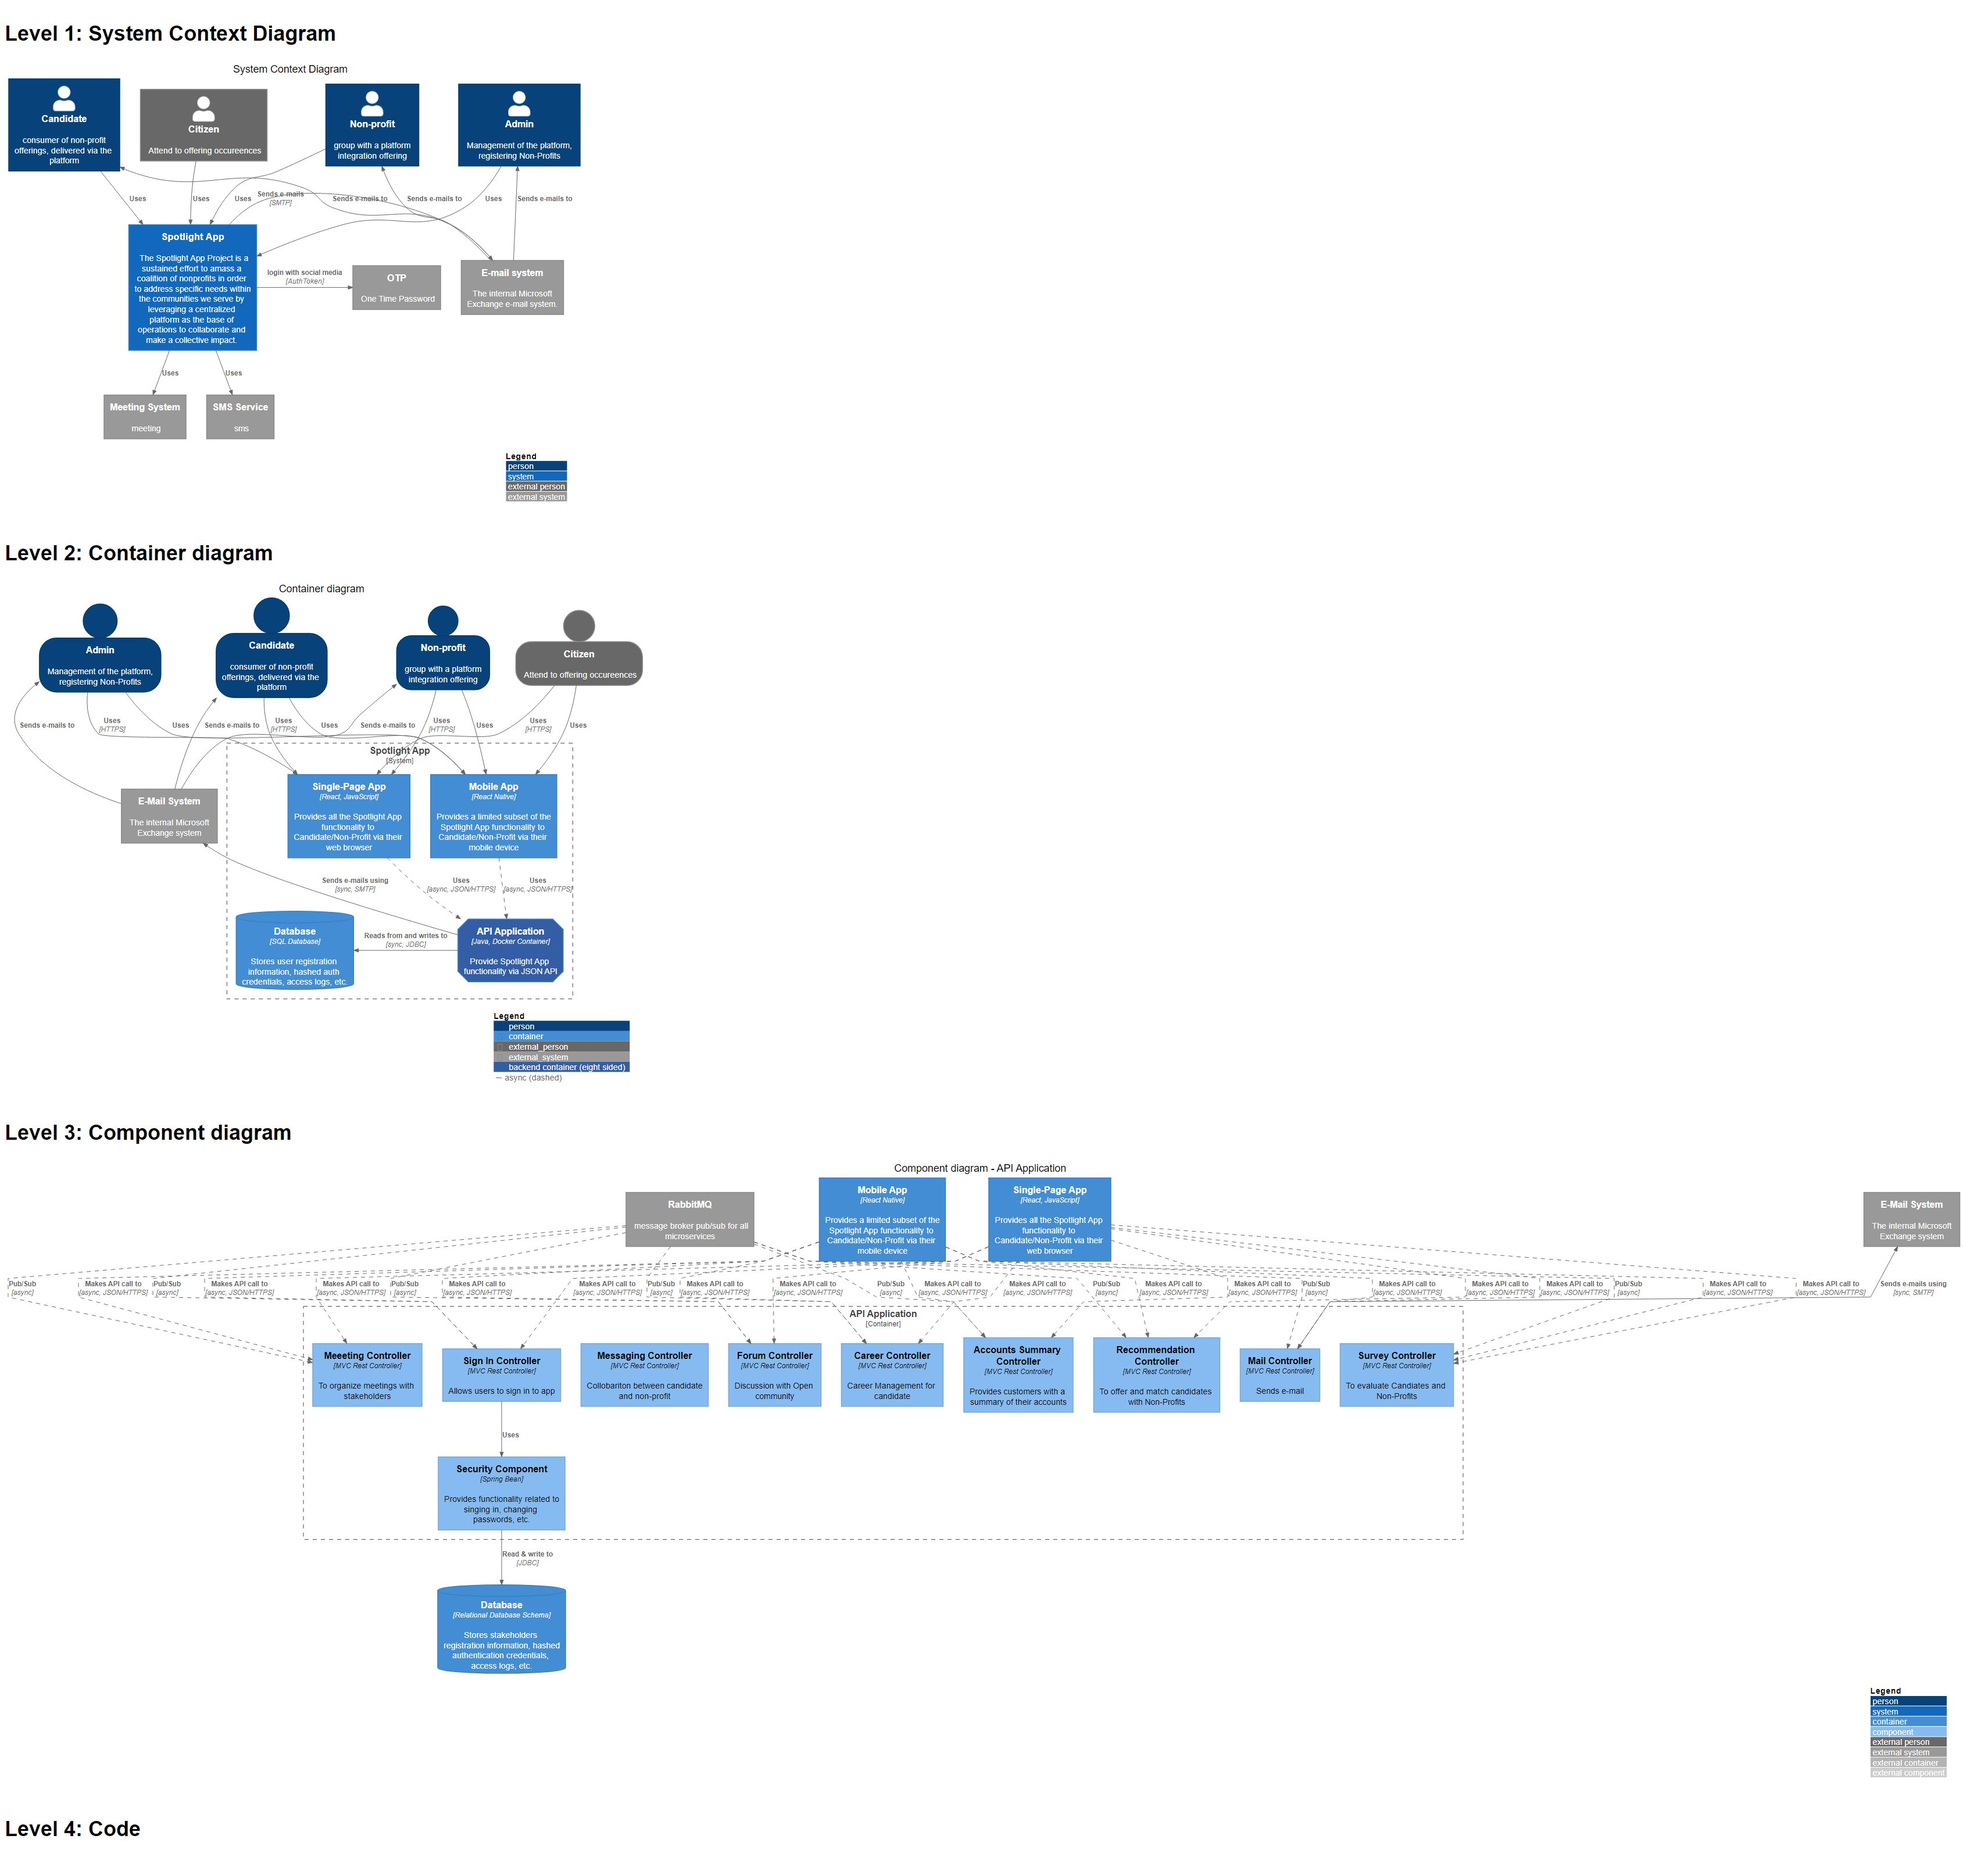
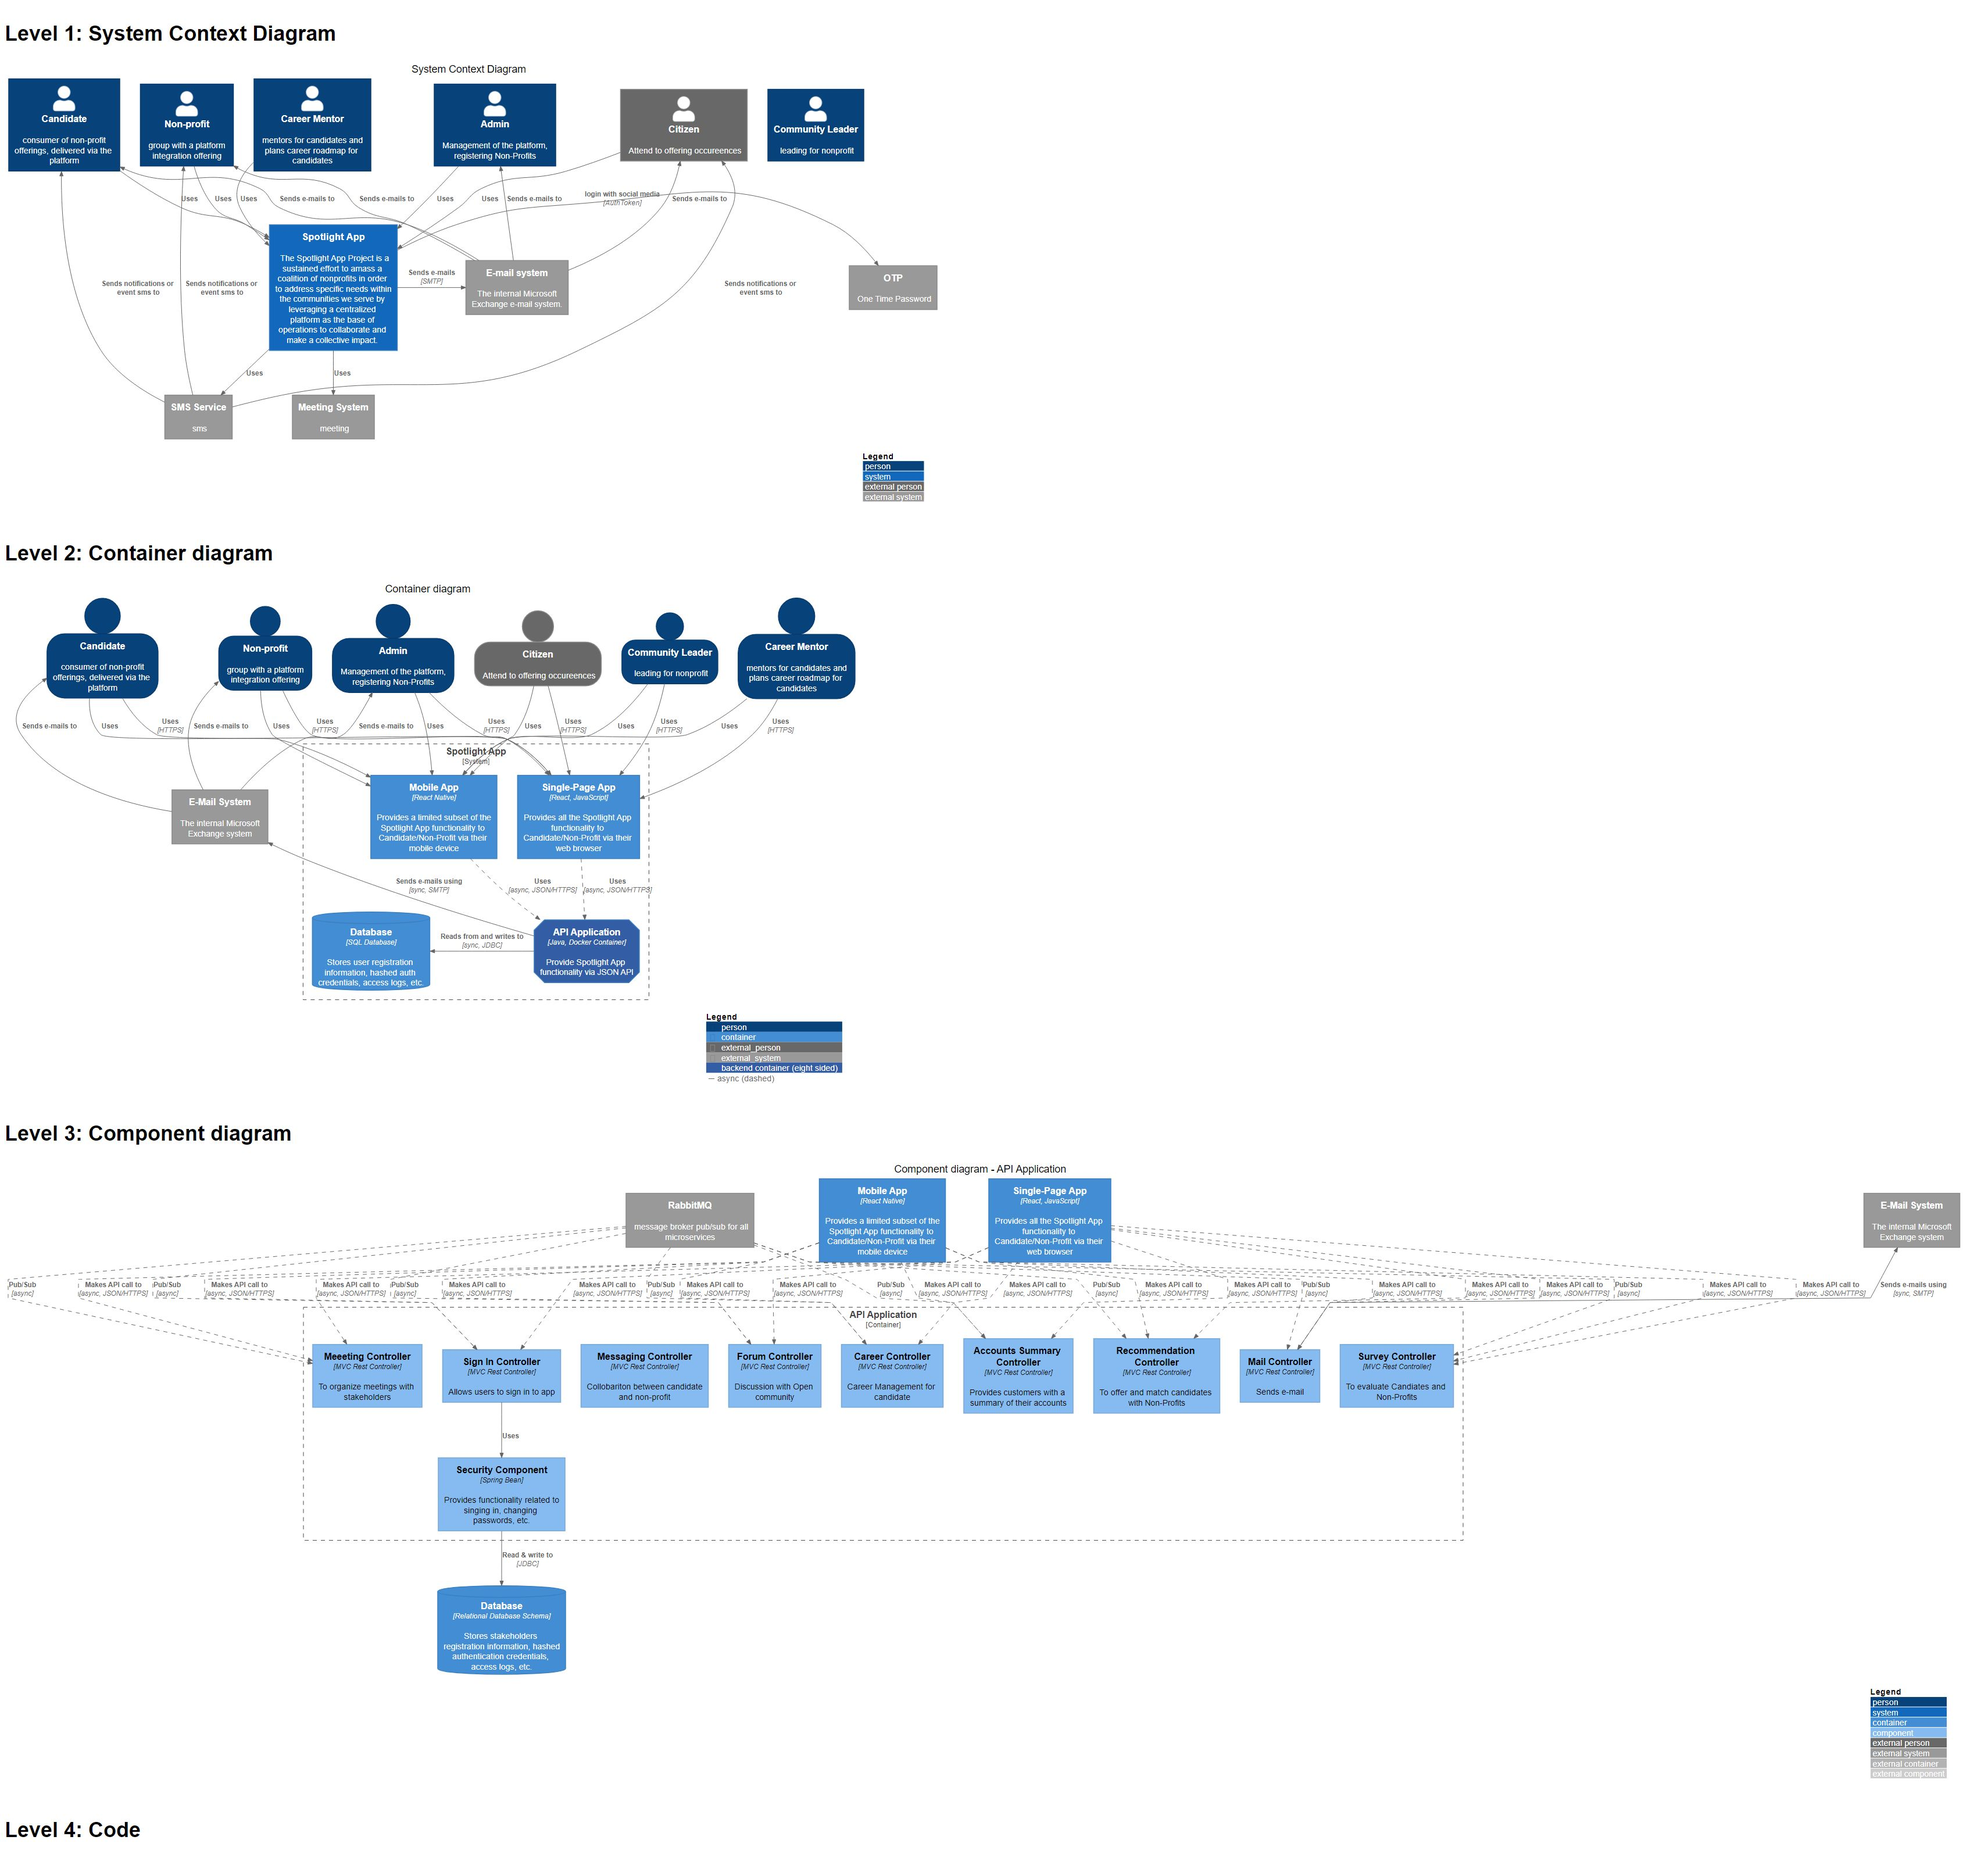
mc

diff --git a/4.ADR/adr-forum.md b/4.ADR/adr-forum.md
@@ -1,27 +1,30 @@
-# We use RabbitMQ
+# We use open source forum service
 
 Date: 2022-06-3
 
 # Status
+
 Accepted
 
 # Context
+
 We need forum to discuss topics between registered and anonymous users
 
 # Decision
 
-For forum, we can implement it from stratch, we can We search for available opensource platforms for forums or we can use forum services from cloud servers. We have selected using open source forum service using same authentication tokens for Spotlight App. We also allow anonymous users to send comments to topics in forums. 
+For forum, we can implement it from stratch, we can We search for available opensource platforms for forums or we can use forum services from cloud servers. We have selected using open source forum service using same authentication tokens for Spotlight App. We also allow anonymous users to send comments to topics in forums.
 
 # Consequences
+
 Positive:
 
-We don't need to implement all forum requirements from stratch.
-We don't have to buy something for forum service.
-
-
+- We don't need to implement all forum requirements from stratch.
+- We don't have to buy something for forum service.
 
 Negative:
-We need a server to maintain and monitor forum updates and security problems.
+
+- We need a server to maintain and monitor forum updates and security problems.
 
 # Risks:
+
 Using same authentication mechanism might be a security risk.

diff --git a/1.ProblemBackground/actors.md b/1.ProblemBackground/actors.md
@@ -1,8 +1,7 @@
-
-| Actors | Actions |
-| ------------ | ----------- |
-|Non-Profit|group with a platform integration offering|
-|Candidate|consumer of non-profit offerings, delivered via the platform|
-|Administrators|Management of the platform, registering Non-Profits|
-|community leader	||
-| career mentor	||
+| Actors           | Actions                                                                                                         |
+| ---------------- | --------------------------------------------------------------------------------------------------------------- |
+| Non-Profit       | group with a platform integration offering                                                                      |
+| Candidate        | consumer of non-profit offerings, delivered via the platform                                                    |
+| Administrators   | Management of the platform, registering Non-Profits                                                             |
+| Community Leader | TODO                                                                                                            |
+| Career Mentor    | uploads new candidate career roadmap in platform and candidate assignment in platform to reflect career roadmap |

diff --git a/readme.md b/readme.md
@@ -2,50 +2,9 @@
 
 Welcome to our entry to the O'Reilly Spring 2022 Architectural Kata. The aim of this documentation repository is to communicate our design for the problem described, for a stakeholder and development team audience.
 
-
 ## Members
 
 - Batuhan Atalay
 - Erdem Sarıgil
 - Mustafa Göksever
 - Özgür Bağlıoğlu
-
-## Solution Structure
-
-[Clarifications](....md)
-
-[Glossary](....md)
-
-[Problem Background](....md)
-
-- [Business Goal](....md)
-- [Architecture Analysis](....md)
-- [Actors and Actions](....md)
-- [Constraints & Assumptions](....md)
-- [Stakeholder Concerns](....md)
-- [RAID Log](....md)
-
-[Solution Background](....md)
-
-- [Architecture Principles](....md)
-- [Overall Architecture Style Analysis](....md)
-- [Datastore Solution Overview](....md)
-- [Deployment](....md)
-- [Migration](....md)
-- [Roadmap](...md)
-- [ADRs](....md)
-
-[Views & Perspectives](....md)
-
-- [Scenario Flow Diagrams](....md)
-
-- [C4 Infrastructure Models](....md)
-
-## Resources
-
-
-
-## References
-
-
-

diff --git a/4.ADR/adr-microservices.md b/4.ADR/adr-microservices.md
@@ -3,25 +3,29 @@
 Date: 2022-06-02
 
 # Status
+
 Accepted
 
 # Context
+
 We need to choose best architecture approach
 
 # Decision
 
+We can use microservices architecture.
+
 # Consequences
+
 Positive:
 
 - Microservices provide the ideal architecture for continuous delivery.
 - Microservice architecture allows you to maximize deployment velocity and application reliability by helping you move at the speed of the market.
 - Microservices can also help you adapt more quickly to the changing market conditions.
 - It is possible to change or upgrade each service individually rather than upgrading in the entire application.
- 
+
 Negative:
 
 - Up-front costs may be higher with microservices.
 - Difficult to manage a large number of services.
 
 # Risks:
-- high volumes of data

diff --git a/1.ProblemBackground/usecases.md b/1.ProblemBackground/usecases.md
@@ -1,8 +1,6 @@
-## Use Cases
+# Use Cases
 
-<br/>
-
-**Actors**
+## UC1
 
 ```plantuml
 @startuml
@@ -11,10 +9,22 @@ skinparam actorStyle awesome
 :Candidate: --> (Use)
 "consumer of non-profit offerings, delivered via the platform" as (Use)
 Administrators --> ( Management of the platform, registering Non-Profits)
+
+:Candidate: ->(Login)
+:Administrators: ->(Login)
+:Non-Profit: ->(Login)
+
+:Candidate: ->(Register)
+:Non-Profit: ->(Register)
+
+:Candidate Mentor: -> (uploads new candidate career roadmap)
+:Candidate Mentor: -> (Login)
+:Community Leader: -> (Login)
+:Citizen:
+
 @enduml
 ```
 
-**UC1: Register non-profits**
-TODO
-**UC2: Register candidate**
+# UC2
+
 TODO

diff --git a/4.ADR/adr-rabbitMQ.md b/4.ADR/adr-rabbitMQ.md
@@ -3,14 +3,19 @@
 Date: 2022-06-02
 
 # Status
+
 Accepted
 
 # Context
+
 We need distributed event store and stream-processing platform
 
 # Decision
 
+We decided to use rabbitMQ
+
 # Consequences
+
 Positive:
 
 - RabbitMQ is best for simple use cases.
@@ -22,4 +27,5 @@ Negative:
 - As Kafka is designed to handle high volumes of data, it’s overkill if you need to process only a small amount of messages per day (up to several thousand). Use traditional message queues such as RabbitMQ for relatively smaller data sets or as a dedicated task queue.
 
 # Risks:
-- high volumes of data
+
+- High volumes of data
